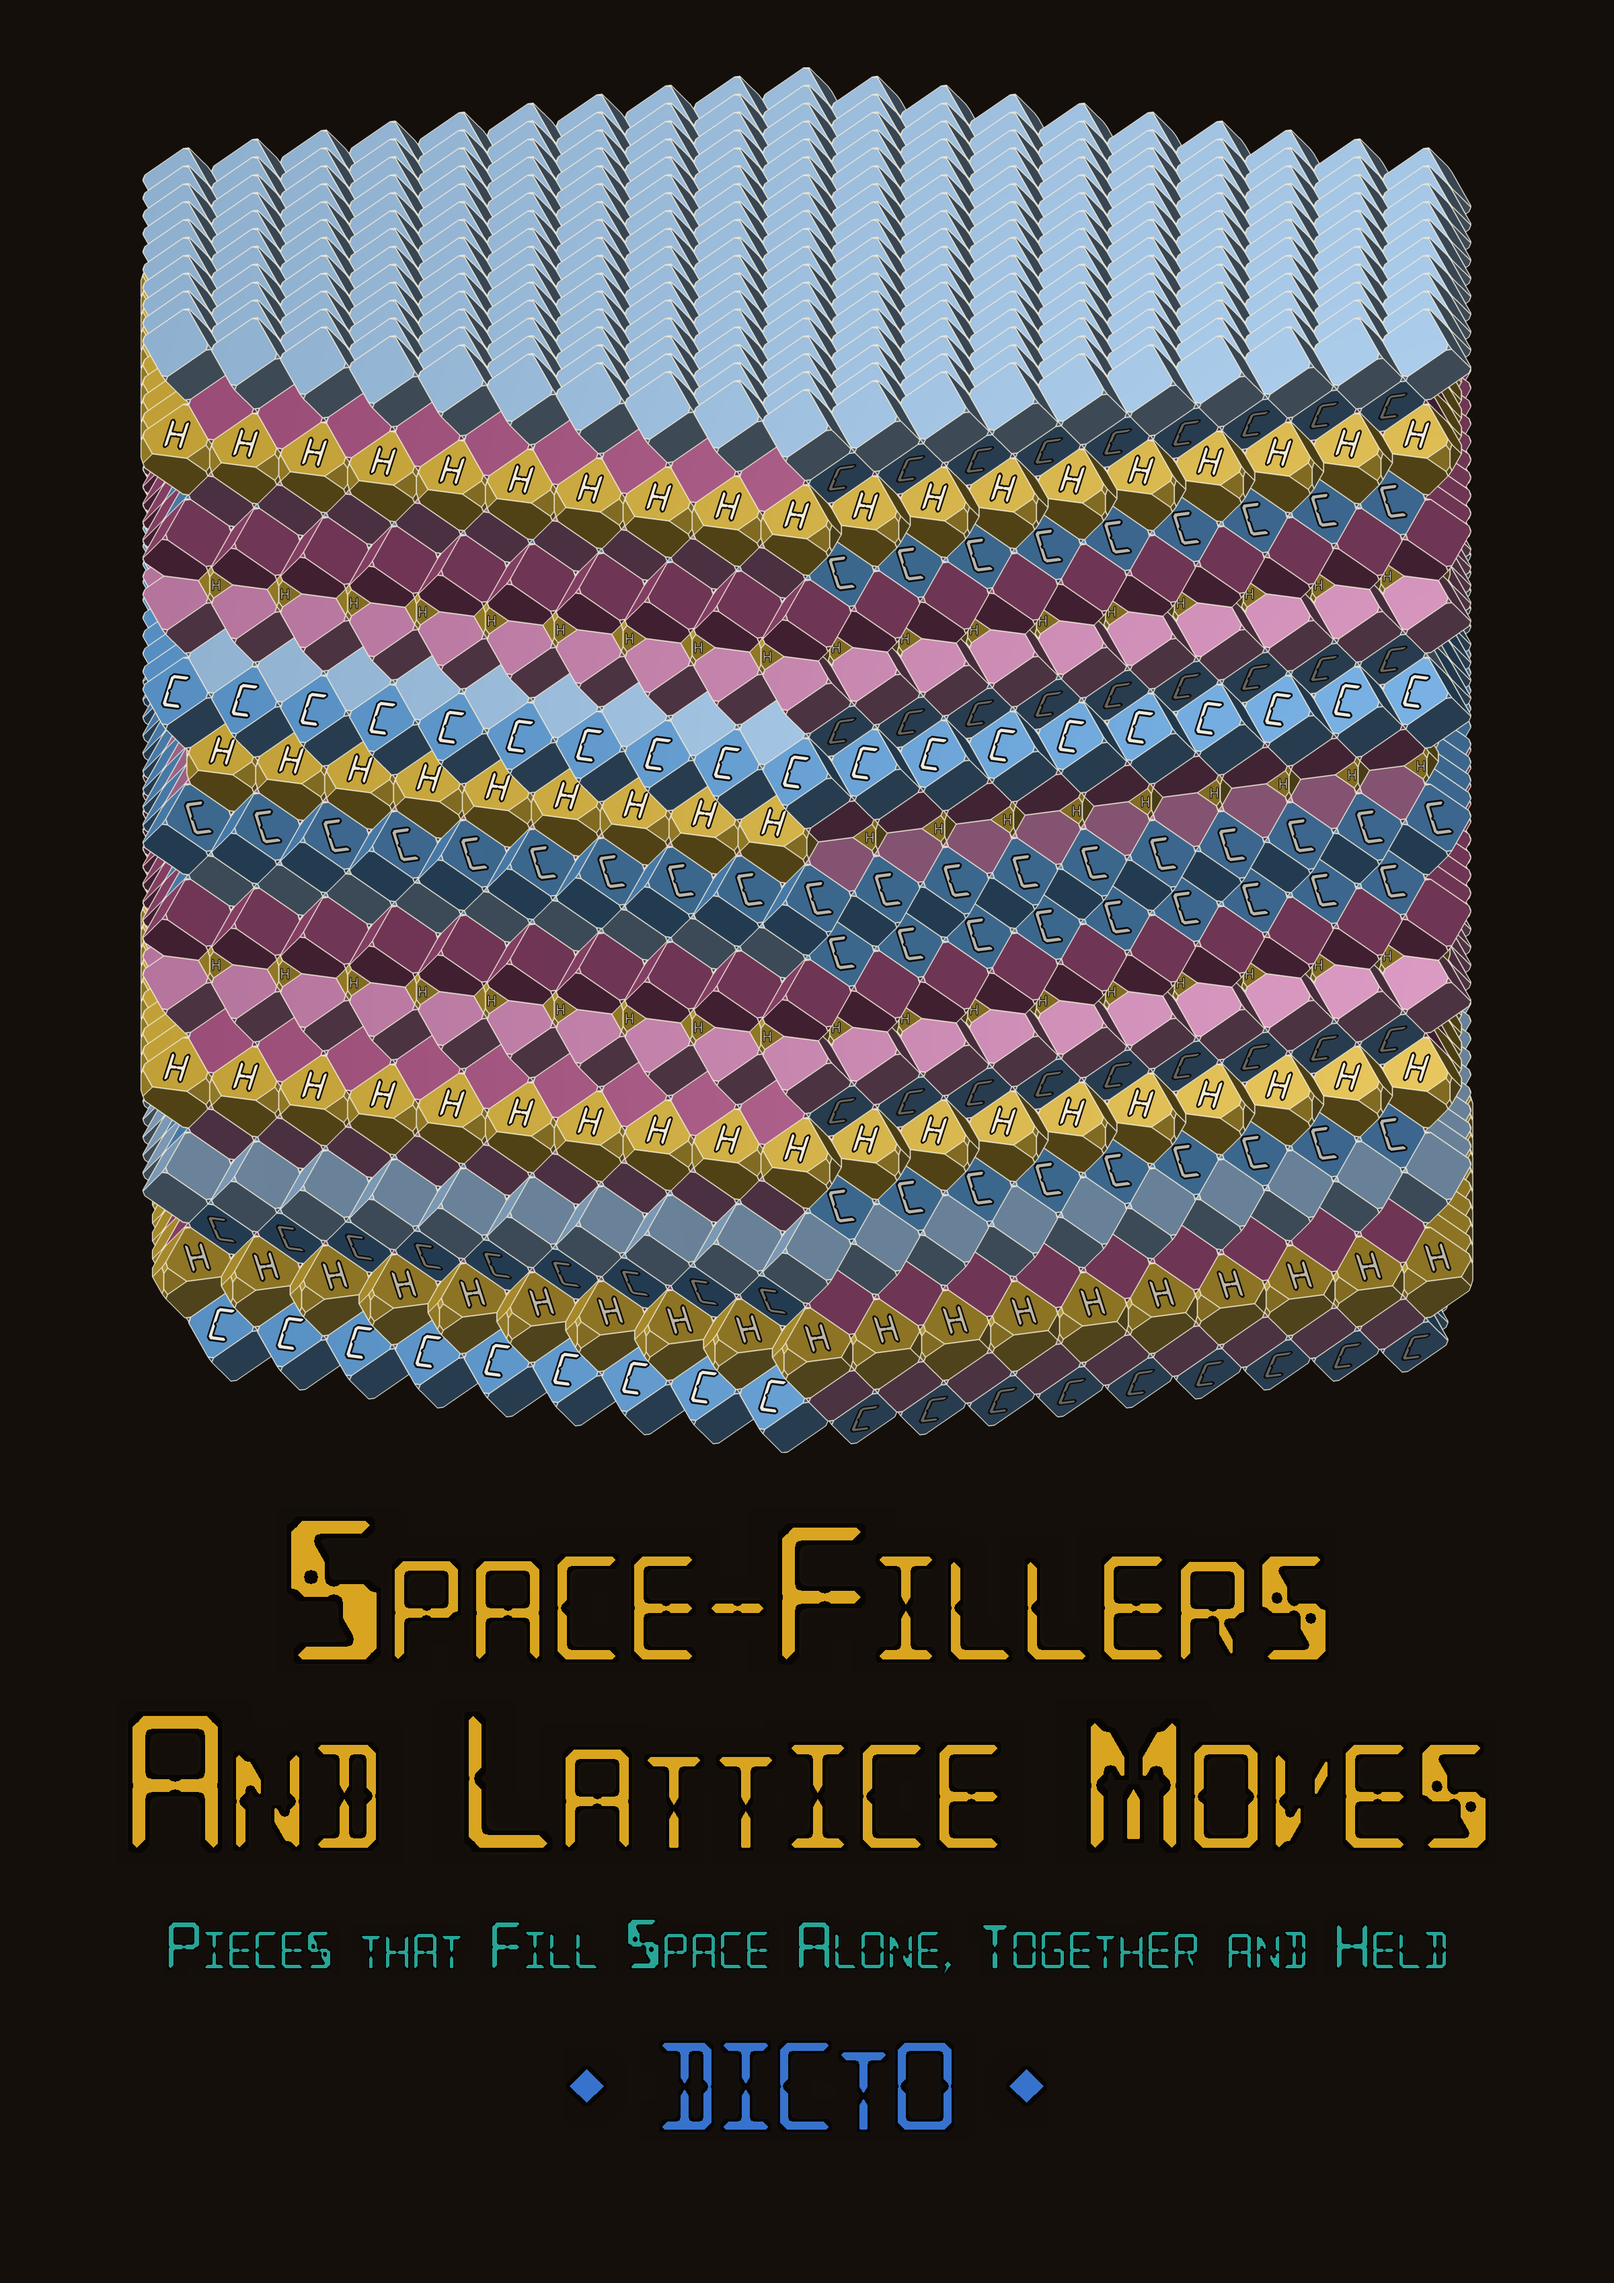
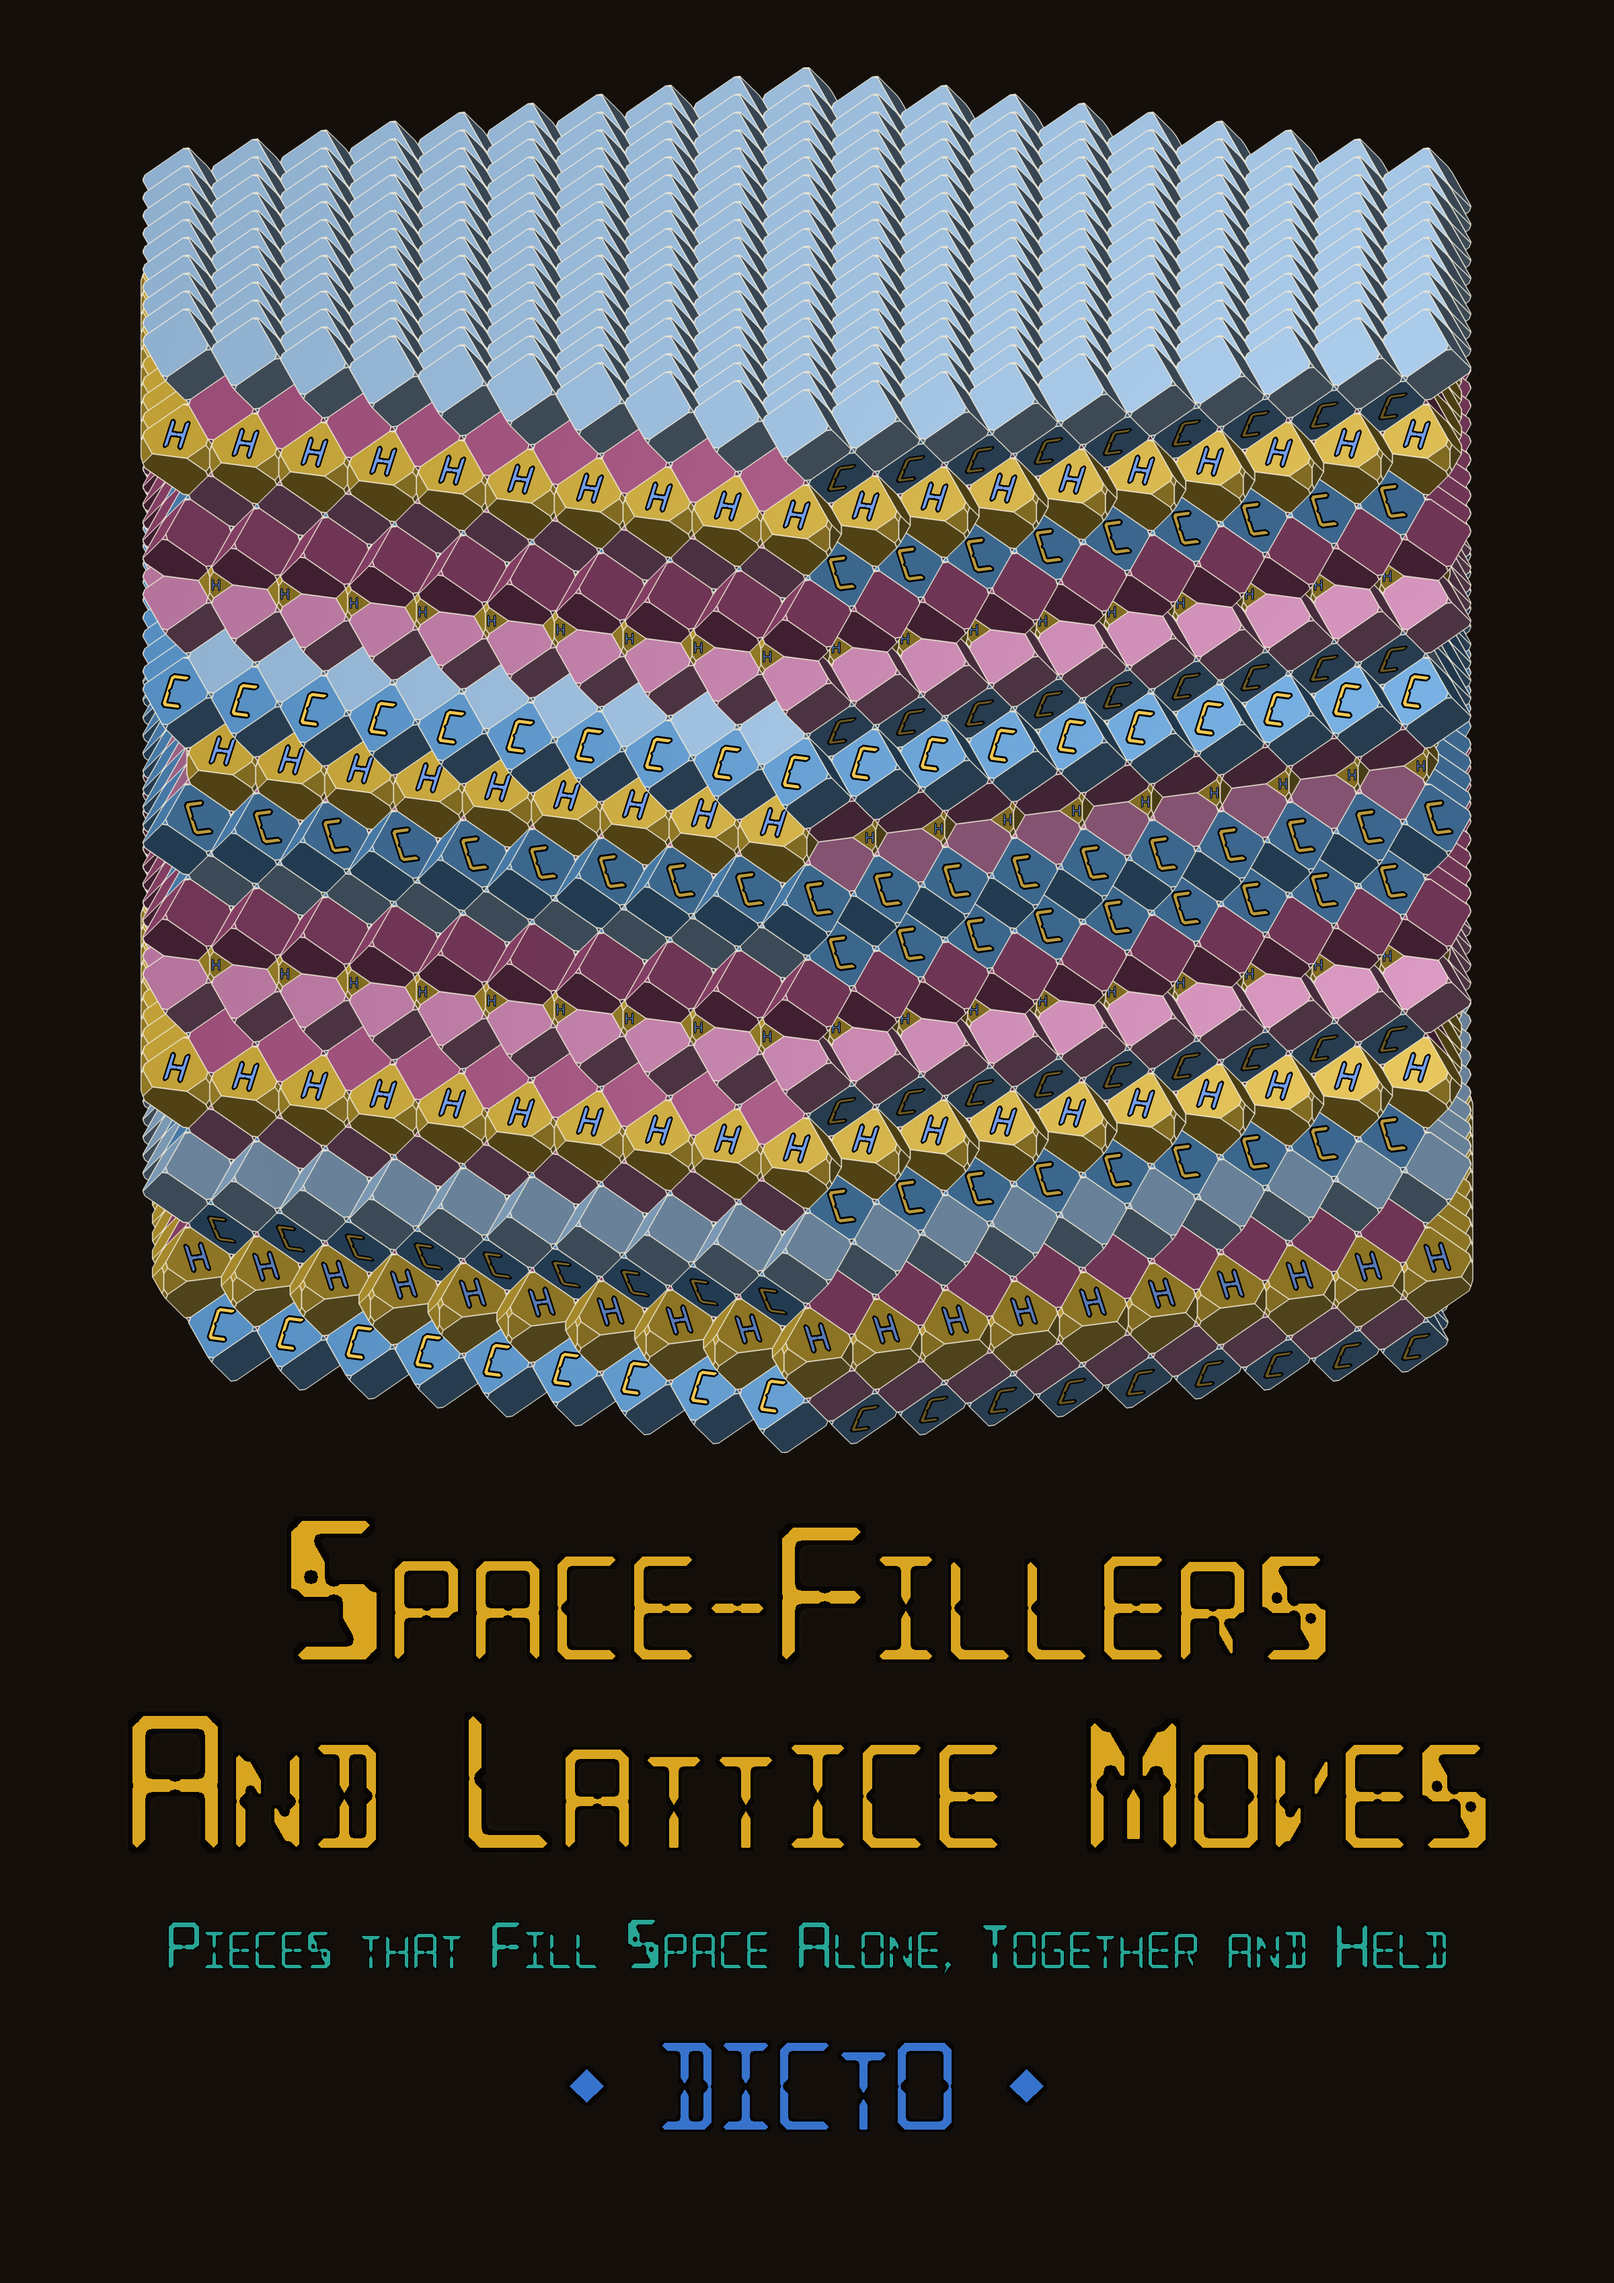
Space-Fillers: cover by DICTO installed (Fibonacci rock-salt pillar, C/H letters in reciprocal colours)

diff --git a/papers/book-space-fillers/paper.html b/papers/book-space-fillers/paper.html
@@ -46,8 +46,8 @@ table.toc td{border-bottom:1px dotted #ccc;padding:1.2mm 2mm} table.toc a{color:
 figure img, .figs img{max-width:100%}
 body,h1,h2,h3,h4,.sub,.meta,figcaption,table,.status,ol.refs{font-family:"Nimbus Sans","Liberation Sans","DejaVu Sans",sans-serif}</style>
 </head><body>
-<div class="coverpage" style="height:252mm;display:flex;justify-content:center;align-items:center;break-after:page;border:1px dashed #b8962e">
-<p style="font:600 14pt 'Nimbus Sans','DejaVu Sans',sans-serif;color:#6b5310;text-align:center">Space-Fillers and Lattice Moves<br><span style="font-weight:normal;font-size:10pt;color:#a00">Cover by DICTO: still to be made</span></p></div>
+<div class="coverpage" style="height:252mm;display:flex;justify-content:center;align-items:center;break-after:page">
+<img src="figures/cover/space-fillers-cover-front.png" alt="Cover: Space-Fillers and Lattice Moves, DICTO: a pillar of rock salt on the Fibonacci stacking, every ball piece carrying its layer letter C or H in reciprocal colours" style="height:248mm;display:block"></div>
 <img class="watermark" src="../dicto-logo.png" alt="">
 <img class="logo" src="../dicto-logo.png" alt="DICTO">
 <h1>Space-Fillers and Lattice Moves<br><span style="font-size:0.72em;font-weight:normal">Which Solids Fill Space, Which Only Together, and Which Hold by Shape Alone</span></h1>
@@ -57,7 +57,7 @@ Book · Version 1 · 7 November 2026 · DICTO DOI: (reserved at release) · Lice
 <div class="status"><b>Draft, not released.</b>
 <ul>
 <li>Holds: an opening, four chapters and a methods appendix, gathering the Concordance's waiting results 4, 28, 30, 31, 33, 37, 41 and the finished part of 39 (the seven golden cut vectors; whether the golden pieces tile is not decided, and that is stated in Chapter 2).</li>
-<li>Cover by DICTO: still to be made. No figures yet: the studies hold no renders of these results; figures to be drawn (sweeps with their Dehn lines, the twelve tiling truncated tetrahedra, the Admiral twin layers, the octet slab).</li>
+<li>Cover by DICTO (7 November): a pillar of rock salt on the Fibonacci stacking, each ball piece carrying its layer's letter, C or H, in reciprocal colours. No figures yet: the studies hold no renders of these results; figures to be drawn (sweeps with their Dehn lines, the twelve tiling truncated tetrahedra, the Admiral twin layers, the octet slab).</li>
 <li>DICTO DOI to be reserved at release.</li>
 <li>Before release: (a) done 7 November: the logs census-sat.log, satper-1.log, satper-2.log and verify-real.log are now in studies/2026-11-04-tetra-sweep/data/, and the Concordance ledger records the n = 8 run as finished (a tiling, period N = 120); (b) prior art for Chapter 4 checked 7 November (Dyskin 2001/2003, Akpanya et al. 2024): the octahedron layer is known and credited; the mixed slab and the Admiral layer were not found;  (c) wider prior-art search for non-uniform truncated tetrahedra that tile.</li>
 <li>Corrections taken in: Concordance item 28 said the CO–RD sweep is Dehn-zero only at μ = 5/3; the Concordance grid corrected this on 4 November to the whole stretch 1 ≤ μ ≤ 4/3 as well, and Theorem 1.2 proves the corrected statement. Proposition 2.3 (density equals Dehn for every integer cut) and the exact proofs of Proposition 3.1 and Proposition 4.1 are new in this draft; the studies had the uniform case, a float screen and a computer check respectively.</li>

diff --git a/studies/2026-11-07-space-fillers-cover/scripts/cover.py b/studies/2026-11-07-space-fillers-cover/scripts/cover.py
@@ -122,7 +122,8 @@ def glyph_masks(ch, size=320):
     yy, xx = np.mgrid[-e:e + 1, -e:e + 1]; o = ndimage.binary_dilation(a, structure=xx ** 2 + yy ** 2 <= e * e) & ~a
     return ndimage.gaussian_filter(a.astype(np.float32), 1.0), ndimage.gaussian_filter(o.astype(np.float32), 1.0)
 GLYPHS = {}
-INK, OUTLINE = np.array([248, 243, 230.]), np.array([14, 10, 7.])   # light LED glyph with a thin dark outline (reads on blue and gold)
+INK = {'C': np.array([255, 205, 70.]), 'H': np.array([110, 160, 255.])}   # reciprocal colours (DICTO 11-03 rule): C in bright gold, H in bright blue
+OUTLINE = np.array([0, 0, 0.])   # black rim round the glyph
 def paint_letters(rgb, zb, ib, rec, pid, PC, M, SS, letters):
     """The layer's letter on every visible face of every lettered piece: upright along the stacking axis, as large as fits the face."""
     ax = M @ np.array([0, 0, 1.0]); n_done = 0
@@ -156,9 +157,9 @@ def paint_letters(rgb, zb, ib, rec, pid, PC, M, SS, letters):
         yy, xx = np.nonzero(sub); P = np.c_[xx + x0 + 0.5, -(yy + y0 + 0.5), zb[y0:y1, x0:x1][sub]] - c
         u, v = P @ rt, P @ up; gx = (u / (t * w) + 0.5) * (gw - 1); gy = (0.5 - v / t) * (gh - 1)
         ai = ndimage.map_coordinates(ink, [gy, gx], order=1, cval=0); ao = ndimage.map_coordinates(out, [gy, gx], order=1, cval=0)
-        px = rgb[y0:y1, x0:x1][sub]; px = px * (1 - 0.92 * ao[:, None]) + OUTLINE * 0.92 * ao[:, None]
+        px = rgb[y0:y1, x0:x1][sub]; px = px * (1 - 0.95 * ao[:, None]) + OUTLINE * 0.95 * ao[:, None]
         shade = 0.42 + 0.58 * max(0.0, (nn / np.linalg.norm(nn)) @ l)   # the glyph is lit like its face (darker on faces turned away)
-        px = px * (1 - 0.95 * ai[:, None]) + INK * shade * 0.95 * ai[:, None]; rgb[y0:y1, x0:x1][sub] = px; n_done += 1
+        px = px * (1 - 0.95 * ai[:, None]) + INK[ch] * shade * 0.95 * ai[:, None]; rgb[y0:y1, x0:x1][sub] = px; n_done += 1
     print('letters painted on', n_done, 'faces', flush=True)
 def put(canvas, rgb, al, x, y):
     h_, w_ = al.shape; c = canvas[y:y + h_, x:x + w_]; canvas[y:y + h_, x:x + w_] = c * (1 - al[..., None]) + rgb * al[..., None]
